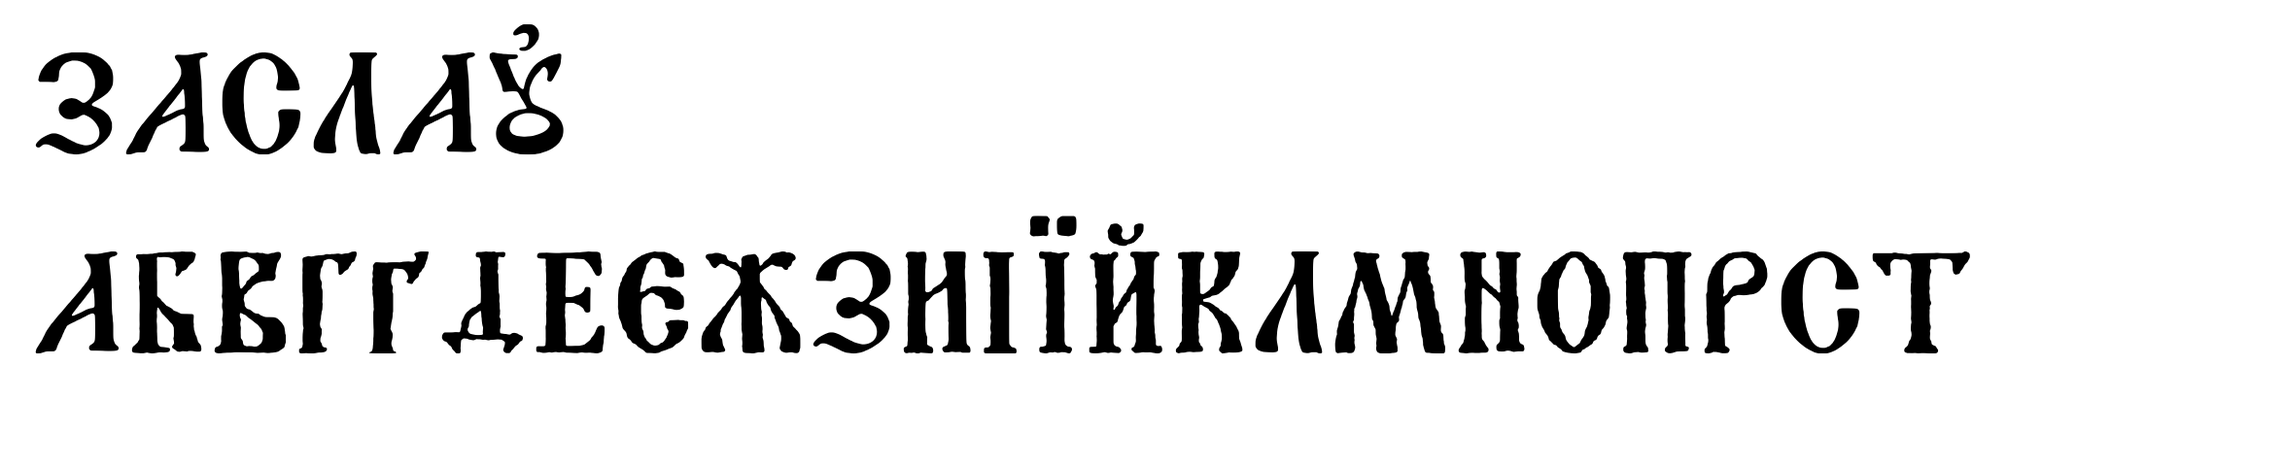
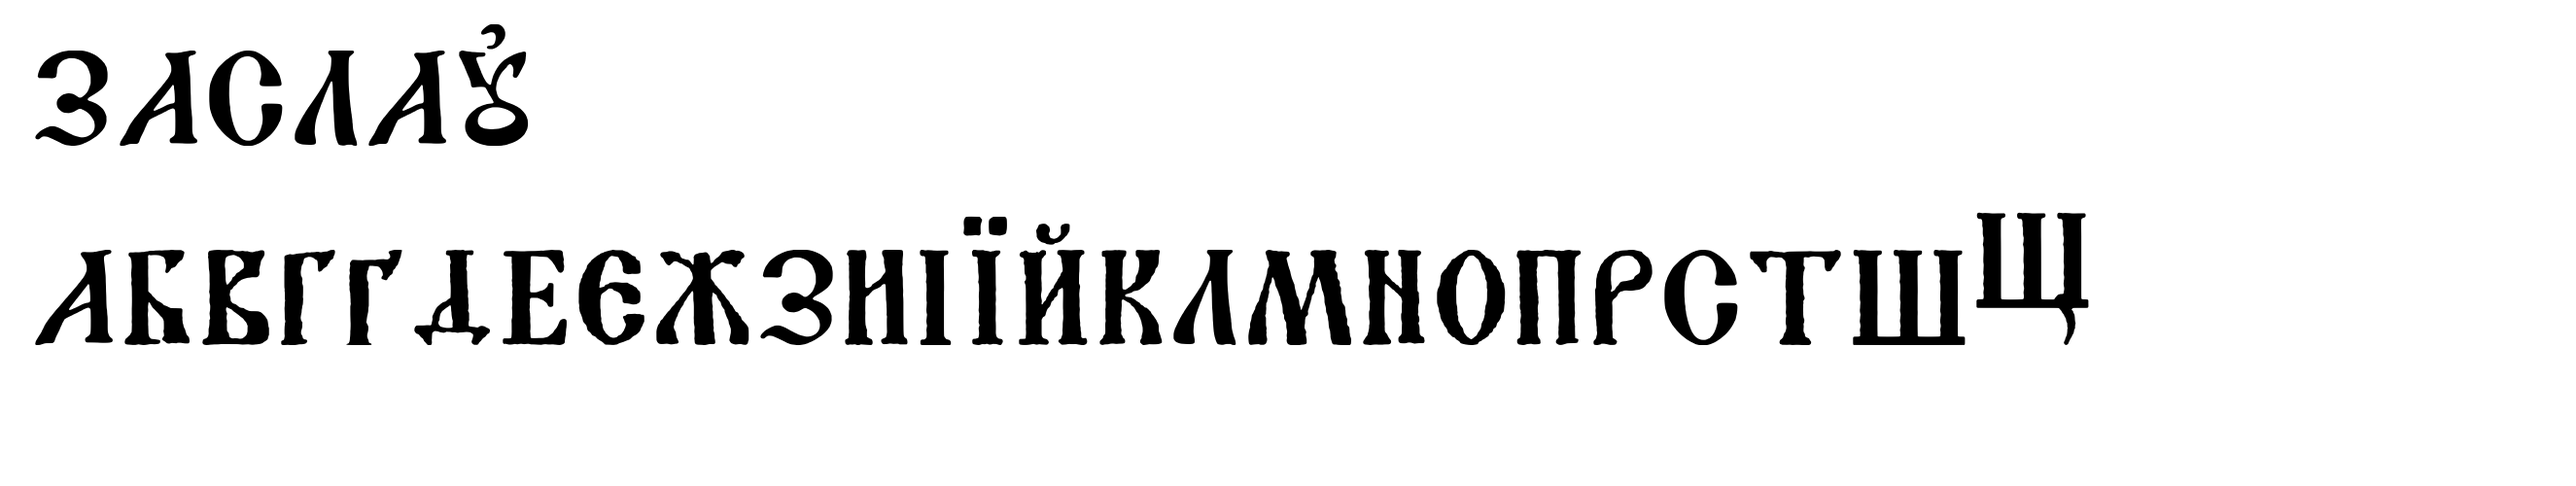
Add Ш and Щ (constructed glyphs) — v1.3, 26 uppercase letters

Changed region(s): [[0.0, 0.4375, 0.8698, 0.7812], [0.0, 0.0625, 0.2485, 0.3438]]

diff --git a/demo.html b/demo.html
@@ -42,13 +42,13 @@
 </head>
 <body>
   <h1>ЗАСЛАЎ</h1>
-  <div class="alphabet">АБВГҐДЕЄЖЗИІЇЙКЛМНОПРСТ</div>
+  <div class="alphabet">АБВГҐДЕЄЖЗИІЇЙКЛМНОПРСТШЩ</div>
 
   <div class="note">
-    Draft v1.2 — 24 uppercase glyphs (traced from the logo + a historic specimen sheet).
+    Draft v1.3 — 26 uppercase glyphs. Ш/Щ are constructed, not traced (see README).
     Note: Ґ's top hook was clipped at the edge of the source scan, so its tip is flat
     rather than pointed — worth a cleaner source or manual touch-up later.
-    Still missing: Ё У Ф Х Ц Ч Ш Ы Ь Э Ю Я and lowercase.
+    Still missing: У Ф Х Ц Ч Ь Ю Я and lowercase.
     Use in CSS with: <code>font-family: "Zaslav Display", serif;</code>
   </div>
 </body>

diff --git a/README.md b/README.md
@@ -9,13 +9,18 @@ built into real font files with [fontTools](https://github.com/fonttools/fonttoo
 
 ## Status
 
-**v1.2 — 24 uppercase glyphs:**
+**v1.3 — 26 uppercase glyphs:**
 
 ```
-А Б В Г Ґ Д Е Є Ж З И І Ї Й К Л М Н О П Р С Т Ў
+А Б В Г Ґ Д Е Є Ж З И І Ї Й К Л М Н О П Р С Т Ў Ш Щ
 ```
 
-Still missing: `У Ф Х Ц Ч Ш Ь Ю Я` and all lowercase letters.
+`Ш` and `Щ` weren't in either source image — they're constructed from the
+same stem/serif shapes as `І`, with `Щ`'s descender tail hand-drawn to match
+the font's stroke weight, then run through the same trace pipeline as
+everything else for a consistent texture.
+
+Still missing: `У Ф Х Ц Ч Ь Ю Я` and all lowercase letters.
 More glyphs get added as source material comes in.
 
 ## Files
